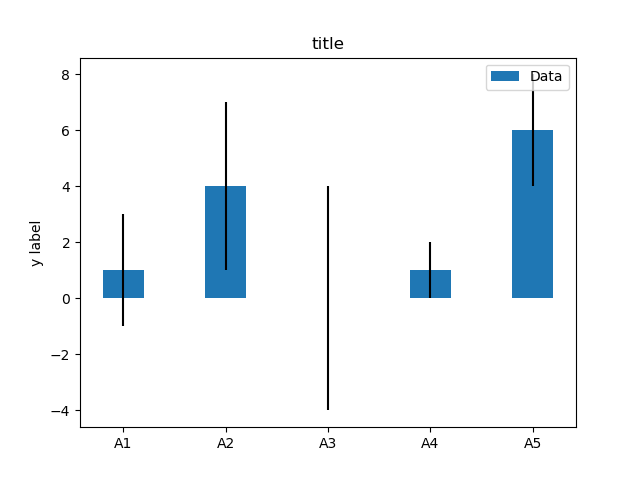
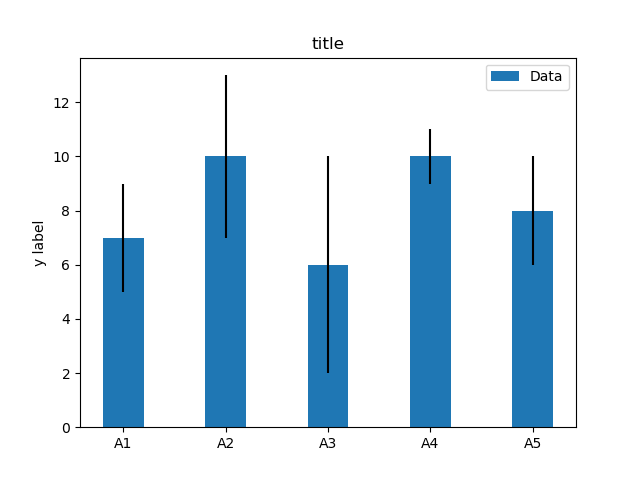
first commit

diff --git a/example.py b/example.py
@@ -2,7 +2,7 @@ import numpy as np
 import matplotlib.pyplot as plt
 
 labels = ['A1', 'A2', 'A3', 'A4', 'A5']
-m_means = [1,4,0,1,6]
+m_means = [7,10,6,10,8]
 m_std = [2, 3, 4, 1, 2]
 width = 0.40       # the width of the bars
 

diff --git a/README.md b/README.md
@@ -1,4 +1,4 @@
-# Matplotlib no 216 
+# Matplotlib no 217 
 
 python example
 
